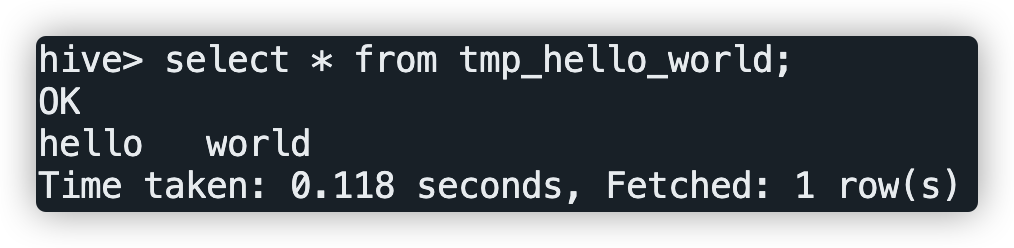
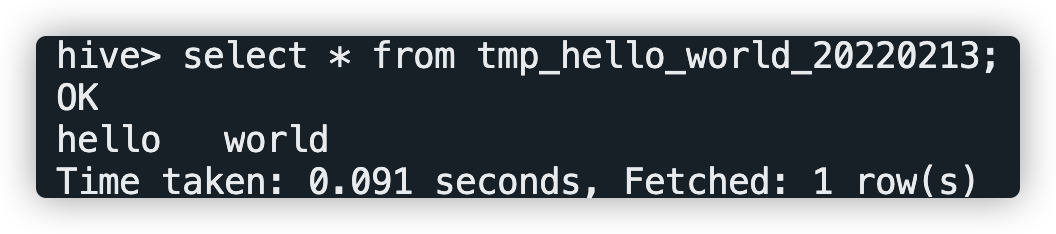
change img only use English screenshot use whole screenshot with step number for how to create sql task use custom parameters for sql task

diff --git a/docs/en-us/2.0.0/user_doc/guide/task/sql.md b/docs/en-us/2.0.0/user_doc/guide/task/sql.md
@@ -2,16 +2,16 @@
 
 ## Overview
 
-SQL task, used to connect to remote database and execute SQL.
+SQL task, used to connect to database and execute SQL.
 
 ## create data source
 
-Click the "create Datasource" button in the Datasource, enter the connection information and test the connection.
+Refer to [Data Source](https://dolphinscheduler.apache.org/en-us/docs/latest/user_doc/guide/datasource/introduction.html)
 
 ## Create Task
 
 - Click Project Management-Project Name-Workflow Definition, and click the "Create Workflow" button to enter the DAG editing page.
-- Drag <img src="/img/tasks/demo/sql-icon.png" width="25"/> from the toolbar to the drawing board.
+- Drag <img src="/img/tasks/icons/sql.png" width="25"/> from the toolbar to the drawing board.
 
 ## Task Parameter
 
@@ -28,13 +28,15 @@ Click the "create Datasource" button in the Datasource, enter the connection inf
 
 ### Create a temporary table in hive and write data
 
-This example creates a temporary table `tmp_hello_world` in hive and write a row of data. Before creating a temporary table, you need to ensure that the table does not exist, so you will use the "Pre Statement" function in the SQL task to delete the table before the "SQL statement" is executed.
+This example creates a temporary table `tmp_hello_world` in hive and write a row of data. Before creating a temporary table, we need to ensure that the table does not exist, so we will use custom parameters to obtain the time of the day as the suffix of the table name every time we run, so that this task can run every day. The format of the created table name is: `tmp_hello_world_{yyyyMMdd}`.
 
-<img src="/img/tasks/demo/hive-sql-en.png" alt="hive-sql-en" style="zoom:80%;" />
+![hive-sql](/img/tasks/demo/hive-sql.png)
 
-After running the task successfully, query the results in hive.
+### After running the task successfully, query the results in hive.
 
-<img src="/img/tasks/demo/hive-result.png" alt="hive-result" style="zoom:80%;" />
+Log in to the bigdata cluster and use 'hive' command or 'beeline' or 'JDBC' and other methods to connect to the 'Apache Hive' for the query. The query SQL is `select * from tmp_hello_world_{yyyyMMdd}`, please replace '{yyyyMMdd}' with the date of the running day. The query screenshot is as follows:
+
+![hive-sql](/img/tasks/demo/hive-result.png)
 
 ## Notice
 

diff --git a/docs/en-us/2.0.1/user_doc/guide/task/sql.md b/docs/en-us/2.0.1/user_doc/guide/task/sql.md
@@ -2,16 +2,16 @@
 
 ## Overview
 
-SQL task, used to connect to remote database and execute SQL.
+SQL task, used to connect to database and execute SQL.
 
 ## create data source
 
-Click the "create Datasource" button in the Datasource, enter the connection information and test the connection.
+Refer to [Data Source](https://dolphinscheduler.apache.org/en-us/docs/latest/user_doc/guide/datasource/introduction.html)
 
 ## Create Task
 
 - Click Project Management-Project Name-Workflow Definition, and click the "Create Workflow" button to enter the DAG editing page.
-- Drag <img src="/img/tasks/demo/sql-icon.png" width="25"/> from the toolbar to the drawing board.
+- Drag <img src="/img/tasks/icons/sql.png" width="25"/> from the toolbar to the drawing board.
 
 ## Task Parameter
 
@@ -28,13 +28,15 @@ Click the "create Datasource" button in the Datasource, enter the connection inf
 
 ### Create a temporary table in hive and write data
 
-This example creates a temporary table `tmp_hello_world` in hive and write a row of data. Before creating a temporary table, you need to ensure that the table does not exist, so you will use the "Pre Statement" function in the SQL task to delete the table before the "SQL statement" is executed.
+This example creates a temporary table `tmp_hello_world` in hive and write a row of data. Before creating a temporary table, we need to ensure that the table does not exist, so we will use custom parameters to obtain the time of the day as the suffix of the table name every time we run, so that this task can run every day. The format of the created table name is: `tmp_hello_world_{yyyyMMdd}`.
 
-<img src="/img/tasks/demo/hive-sql-en.png" alt="hive-sql-en" style="zoom:80%;" />
+![hive-sql](/img/tasks/demo/hive-sql.png)
 
-After running the task successfully, query the results in hive.
+### After running the task successfully, query the results in hive.
 
-<img src="/img/tasks/demo/hive-result.png" alt="hive-result" style="zoom:80%;" />
+Log in to the bigdata cluster and use 'hive' command or 'beeline' or 'JDBC' and other methods to connect to the 'Apache Hive' for the query. The query SQL is `select * from tmp_hello_world_{yyyyMMdd}`, please replace '{yyyyMMdd}' with the date of the running day. The query screenshot is as follows:
+
+![hive-sql](/img/tasks/demo/hive-result.png)
 
 ## Notice
 

diff --git a/docs/en-us/2.0.2/user_doc/guide/task/sql.md b/docs/en-us/2.0.2/user_doc/guide/task/sql.md
@@ -2,16 +2,16 @@
 
 ## Overview
 
-SQL task, used to connect to remote database and execute SQL.
+SQL task, used to connect to database and execute SQL.
 
 ## create data source
 
-Click the "create Datasource" button in the Datasource, enter the connection information and test the connection.
+Refer to [Data Source](https://dolphinscheduler.apache.org/en-us/docs/latest/user_doc/guide/datasource/introduction.html)
 
 ## Create Task
 
 - Click Project Management-Project Name-Workflow Definition, and click the "Create Workflow" button to enter the DAG editing page.
-- Drag <img src="/img/tasks/demo/sql-icon.png" width="25"/> from the toolbar to the drawing board.
+- Drag <img src="/img/tasks/icons/sql.png" width="25"/> from the toolbar to the drawing board.
 
 ## Task Parameter
 
@@ -28,13 +28,15 @@ Click the "create Datasource" button in the Datasource, enter the connection inf
 
 ### Create a temporary table in hive and write data
 
-This example creates a temporary table `tmp_hello_world` in hive and write a row of data. Before creating a temporary table, you need to ensure that the table does not exist, so you will use the "Pre Statement" function in the SQL task to delete the table before the "SQL statement" is executed.
+This example creates a temporary table `tmp_hello_world` in hive and write a row of data. Before creating a temporary table, we need to ensure that the table does not exist, so we will use custom parameters to obtain the time of the day as the suffix of the table name every time we run, so that this task can run every day. The format of the created table name is: `tmp_hello_world_{yyyyMMdd}`.
 
-<img src="/img/tasks/demo/hive-sql-en.png" alt="hive-sql-en" style="zoom:80%;" />
+![hive-sql](/img/tasks/demo/hive-sql.png)
 
-After running the task successfully, query the results in hive.
+### After running the task successfully, query the results in hive.
 
-<img src="/img/tasks/demo/hive-result.png" alt="hive-result" style="zoom:80%;" />
+Log in to the bigdata cluster and use 'hive' command or 'beeline' or 'JDBC' and other methods to connect to the 'Apache Hive' for the query. The query SQL is `select * from tmp_hello_world_{yyyyMMdd}`, please replace '{yyyyMMdd}' with the date of the running day. The query screenshot is as follows:
+
+![hive-sql](/img/tasks/demo/hive-result.png)
 
 ## Notice
 

diff --git a/docs/en-us/2.0.3/user_doc/guide/task/sql.md b/docs/en-us/2.0.3/user_doc/guide/task/sql.md
@@ -2,16 +2,16 @@
 
 ## Overview
 
-SQL task, used to connect to remote database and execute SQL.
+SQL task, used to connect to database and execute SQL.
 
 ## create data source
 
-Click the "create Datasource" button in the Datasource, enter the connection information and test the connection.
+Refer to [Data Source](https://dolphinscheduler.apache.org/en-us/docs/latest/user_doc/guide/datasource/introduction.html)
 
 ## Create Task
 
 - Click Project Management-Project Name-Workflow Definition, and click the "Create Workflow" button to enter the DAG editing page.
-- Drag <img src="/img/tasks/demo/sql-icon.png" width="25"/> from the toolbar to the drawing board.
+- Drag <img src="/img/tasks/icons/sql.png" width="25"/> from the toolbar to the drawing board.
 
 ## Task Parameter
 
@@ -28,13 +28,15 @@ Click the "create Datasource" button in the Datasource, enter the connection inf
 
 ### Create a temporary table in hive and write data
 
-This example creates a temporary table `tmp_hello_world` in hive and write a row of data. Before creating a temporary table, you need to ensure that the table does not exist, so you will use the "Pre Statement" function in the SQL task to delete the table before the "SQL statement" is executed.
+This example creates a temporary table `tmp_hello_world` in hive and write a row of data. Before creating a temporary table, we need to ensure that the table does not exist, so we will use custom parameters to obtain the time of the day as the suffix of the table name every time we run, so that this task can run every day. The format of the created table name is: `tmp_hello_world_{yyyyMMdd}`.
 
-<img src="/img/tasks/demo/hive-sql-en.png" alt="hive-sql-en" style="zoom:80%;" />
+![hive-sql](/img/tasks/demo/hive-sql.png)
 
-After running the task successfully, query the results in hive.
+### After running the task successfully, query the results in hive.
 
-<img src="/img/tasks/demo/hive-result.png" alt="hive-result" style="zoom:80%;" />
+Log in to the bigdata cluster and use 'hive' command or 'beeline' or 'JDBC' and other methods to connect to the 'Apache Hive' for the query. The query SQL is `select * from tmp_hello_world_{yyyyMMdd}`, please replace '{yyyyMMdd}' with the date of the running day. The query screenshot is as follows:
+
+![hive-sql](/img/tasks/demo/hive-result.png)
 
 ## Notice
 

diff --git a/docs/en-us/dev/user_doc/guide/task/sql.md b/docs/en-us/dev/user_doc/guide/task/sql.md
@@ -2,16 +2,16 @@
 
 ## Overview
 
-SQL task, used to connect to remote database and execute SQL.
+SQL task, used to connect to database and execute SQL.
 
 ## create data source
 
-Click the "create Datasource" button in the Datasource, enter the connection information and test the connection.
+Refer to [Data Source](https://dolphinscheduler.apache.org/en-us/docs/latest/user_doc/guide/datasource/introduction.html)
 
 ## Create Task
 
 - Click Project Management-Project Name-Workflow Definition, and click the "Create Workflow" button to enter the DAG editing page.
-- Drag <img src="/img/tasks/demo/sql-icon.png" width="25"/> from the toolbar to the drawing board.
+- Drag <img src="/img/tasks/icons/sql.png" width="25"/> from the toolbar to the drawing board.
 
 ## Task Parameter
 
@@ -28,13 +28,15 @@ Click the "create Datasource" button in the Datasource, enter the connection inf
 
 ### Create a temporary table in hive and write data
 
-This example creates a temporary table `tmp_hello_world` in hive and write a row of data. Before creating a temporary table, you need to ensure that the table does not exist, so you will use the "Pre Statement" function in the SQL task to delete the table before the "SQL statement" is executed.
+This example creates a temporary table `tmp_hello_world` in hive and write a row of data. Before creating a temporary table, we need to ensure that the table does not exist, so we will use custom parameters to obtain the time of the day as the suffix of the table name every time we run, so that this task can run every day. The format of the created table name is: `tmp_hello_world_{yyyyMMdd}`.
 
-<img src="/img/tasks/demo/hive-sql-en.png" alt="hive-sql-en" style="zoom:80%;" />
+![hive-sql](/img/tasks/demo/hive-sql.png)
 
-After running the task successfully, query the results in hive.
+### After running the task successfully, query the results in hive.
 
-<img src="/img/tasks/demo/hive-result.png" alt="hive-result" style="zoom:80%;" />
+Log in to the bigdata cluster and use 'hive' command or 'beeline' or 'JDBC' and other methods to connect to the 'Apache Hive' for the query. The query SQL is `select * from tmp_hello_world_{yyyyMMdd}`, please replace '{yyyyMMdd}' with the date of the running day. The query screenshot is as follows:
+
+![hive-sql](/img/tasks/demo/hive-result.png)
 
 ## Notice
 

diff --git a/docs/zh-cn/2.0.0/user_doc/guide/task/sql.md b/docs/zh-cn/2.0.0/user_doc/guide/task/sql.md
@@ -2,16 +2,16 @@
 
 ## 综述
 
-SQL任务类型，用于连接远程数据库并执行相应SQL。
+SQL任务类型，用于连接数据库并执行相应SQL。
 
 ## 创建数据源
 
-- 点击数据源中心的“创建数据源”按钮，输入连接信息并测试连接。
+可参考[数据源中心介绍](https://dolphinscheduler.apache.org/zh-cn/docs/latest/user_doc/guide/datasource/introduction.html)。
 
 ## 创建任务
 
 - 点击项目管理-项目名称-工作流定义，点击"创建工作流"按钮，进入DAG编辑页面。
-- 工具栏中拖动 <img src="/img/tasks/demo/sql-icon.png" width="25"/> 到画板中，选择需要连接的数据源，即可完成创建。
+- 工具栏中拖动 <img src="/img/tasks/icons/sql.png" width="25"/> 到画板中，选择需要连接的数据源，即可完成创建。
 
 ## 任务参数
 
@@ -28,13 +28,15 @@ SQL任务类型，用于连接远程数据库并执行相应SQL。
 
 ### 在hive中创建临时表并写入数据
 
-该样例向hive中创建临时表`tmp_hello_world`并写入一行数据。选择SQL类型为非查询，在创建临时表之前需要确保该表不存在，所以会用到SQL任务中“前置sql”的功能，在“sql语句”执行之前将该表删除。
+该样例向hive中创建临时表`tmp_hello_world`并写入一行数据。选择SQL类型为非查询，在创建临时表之前需要确保该表不存在，所以我们使用自定义参数，在每次运行时获取当天时间作为表名后缀，这样这个任务就可以每天运行。创建的表名格式为：`tmp_hello_world_{yyyyMMdd}`。
 
-<img src="/img/tasks/demo/hive-sql-zh.png" alt="hive-sql-zh" style="zoom:80%;" />
+![hive-sql](/img/tasks/demo/hive-sql.png)
 
-运行该任务成功之后在hive中查询结果
+### 运行该任务成功之后在hive中查询结果
 
-<img src="/img/tasks/demo/hive-result.png" alt="hive-result" style="zoom:80%;" />
+登录集群使用`hive`命令或使用`beeline`、`JDBC`等方式连接`apache hive`进行查询，查询SQL为`select * from tmp_hello_world_{yyyyMMdd}`，请将`{yyyyMMdd}`替换为运行当天的日期，查询截图如下：
+
+![hive-sql](/img/tasks/demo/hive-result.png)
 
 ## 注意事项
 

diff --git a/docs/zh-cn/2.0.1/user_doc/guide/task/sql.md b/docs/zh-cn/2.0.1/user_doc/guide/task/sql.md
@@ -2,16 +2,16 @@
 
 ## 综述
 
-SQL任务类型，用于连接远程数据库并执行相应SQL。
+SQL任务类型，用于连接数据库并执行相应SQL。
 
 ## 创建数据源
 
-- 点击数据源中心的“创建数据源”按钮，输入连接信息并测试连接。
+可参考[数据源中心介绍](https://dolphinscheduler.apache.org/zh-cn/docs/latest/user_doc/guide/datasource/introduction.html)。
 
 ## 创建任务
 
 - 点击项目管理-项目名称-工作流定义，点击"创建工作流"按钮，进入DAG编辑页面。
-- 工具栏中拖动 <img src="/img/tasks/demo/sql-icon.png" width="25"/> 到画板中，选择需要连接的数据源，即可完成创建。
+- 工具栏中拖动 <img src="/img/tasks/icons/sql.png" width="25"/> 到画板中，选择需要连接的数据源，即可完成创建。
 
 ## 任务参数
 
@@ -28,13 +28,15 @@ SQL任务类型，用于连接远程数据库并执行相应SQL。
 
 ### 在hive中创建临时表并写入数据
 
-该样例向hive中创建临时表`tmp_hello_world`并写入一行数据。选择SQL类型为非查询，在创建临时表之前需要确保该表不存在，所以会用到SQL任务中“前置sql”的功能，在“sql语句”执行之前将该表删除。
+该样例向hive中创建临时表`tmp_hello_world`并写入一行数据。选择SQL类型为非查询，在创建临时表之前需要确保该表不存在，所以我们使用自定义参数，在每次运行时获取当天时间作为表名后缀，这样这个任务就可以每天运行。创建的表名格式为：`tmp_hello_world_{yyyyMMdd}`。
 
-<img src="/img/tasks/demo/hive-sql-zh.png" alt="hive-sql-zh" style="zoom:80%;" />
+![hive-sql](/img/tasks/demo/hive-sql.png)
 
-运行该任务成功之后在hive中查询结果
+### 运行该任务成功之后在hive中查询结果
 
-<img src="/img/tasks/demo/hive-result.png" alt="hive-result" style="zoom:80%;" />
+登录集群使用`hive`命令或使用`beeline`、`JDBC`等方式连接`apache hive`进行查询，查询SQL为`select * from tmp_hello_world_{yyyyMMdd}`，请将`{yyyyMMdd}`替换为运行当天的日期，查询截图如下：
+
+![hive-sql](/img/tasks/demo/hive-result.png)
 
 ## 注意事项
 

diff --git a/docs/zh-cn/2.0.2/user_doc/guide/task/sql.md b/docs/zh-cn/2.0.2/user_doc/guide/task/sql.md
@@ -2,16 +2,16 @@
 
 ## 综述
 
-SQL任务类型，用于连接远程数据库并执行相应SQL。
+SQL任务类型，用于连接数据库并执行相应SQL。
 
 ## 创建数据源
 
-- 点击数据源中心的“创建数据源”按钮，输入连接信息并测试连接。
+可参考[数据源中心介绍](https://dolphinscheduler.apache.org/zh-cn/docs/latest/user_doc/guide/datasource/introduction.html)。
 
 ## 创建任务
 
 - 点击项目管理-项目名称-工作流定义，点击"创建工作流"按钮，进入DAG编辑页面。
-- 工具栏中拖动 <img src="/img/tasks/demo/sql-icon.png" width="25"/> 到画板中，选择需要连接的数据源，即可完成创建。
+- 工具栏中拖动 <img src="/img/tasks/icons/sql.png" width="25"/> 到画板中，选择需要连接的数据源，即可完成创建。
 
 ## 任务参数
 
@@ -28,13 +28,15 @@ SQL任务类型，用于连接远程数据库并执行相应SQL。
 
 ### 在hive中创建临时表并写入数据
 
-该样例向hive中创建临时表`tmp_hello_world`并写入一行数据。选择SQL类型为非查询，在创建临时表之前需要确保该表不存在，所以会用到SQL任务中“前置sql”的功能，在“sql语句”执行之前将该表删除。
+该样例向hive中创建临时表`tmp_hello_world`并写入一行数据。选择SQL类型为非查询，在创建临时表之前需要确保该表不存在，所以我们使用自定义参数，在每次运行时获取当天时间作为表名后缀，这样这个任务就可以每天运行。创建的表名格式为：`tmp_hello_world_{yyyyMMdd}`。
 
-<img src="/img/tasks/demo/hive-sql-zh.png" alt="hive-sql-zh" style="zoom:80%;" />
+![hive-sql](/img/tasks/demo/hive-sql.png)
 
-运行该任务成功之后在hive中查询结果
+### 运行该任务成功之后在hive中查询结果
 
-<img src="/img/tasks/demo/hive-result.png" alt="hive-result" style="zoom:80%;" />
+登录集群使用`hive`命令或使用`beeline`、`JDBC`等方式连接`apache hive`进行查询，查询SQL为`select * from tmp_hello_world_{yyyyMMdd}`，请将`{yyyyMMdd}`替换为运行当天的日期，查询截图如下：
+
+![hive-sql](/img/tasks/demo/hive-result.png)
 
 ## 注意事项
 

diff --git a/docs/zh-cn/2.0.3/user_doc/guide/task/sql.md b/docs/zh-cn/2.0.3/user_doc/guide/task/sql.md
@@ -2,16 +2,16 @@
 
 ## 综述
 
-SQL任务类型，用于连接远程数据库并执行相应SQL。
+SQL任务类型，用于连接数据库并执行相应SQL。
 
 ## 创建数据源
 
-- 点击数据源中心的“创建数据源”按钮，输入连接信息并测试连接。
+可参考[数据源中心介绍](https://dolphinscheduler.apache.org/zh-cn/docs/latest/user_doc/guide/datasource/introduction.html)。
 
 ## 创建任务
 
 - 点击项目管理-项目名称-工作流定义，点击"创建工作流"按钮，进入DAG编辑页面。
-- 工具栏中拖动 <img src="/img/tasks/demo/sql-icon.png" width="25"/> 到画板中，选择需要连接的数据源，即可完成创建。
+- 工具栏中拖动 <img src="/img/tasks/icons/sql.png" width="25"/> 到画板中，选择需要连接的数据源，即可完成创建。
 
 ## 任务参数
 
@@ -28,13 +28,15 @@ SQL任务类型，用于连接远程数据库并执行相应SQL。
 
 ### 在hive中创建临时表并写入数据
 
-该样例向hive中创建临时表`tmp_hello_world`并写入一行数据。选择SQL类型为非查询，在创建临时表之前需要确保该表不存在，所以会用到SQL任务中“前置sql”的功能，在“sql语句”执行之前将该表删除。
+该样例向hive中创建临时表`tmp_hello_world`并写入一行数据。选择SQL类型为非查询，在创建临时表之前需要确保该表不存在，所以我们使用自定义参数，在每次运行时获取当天时间作为表名后缀，这样这个任务就可以每天运行。创建的表名格式为：`tmp_hello_world_{yyyyMMdd}`。
 
-<img src="/img/tasks/demo/hive-sql-zh.png" alt="hive-sql-zh" style="zoom:80%;" />
+![hive-sql](/img/tasks/demo/hive-sql.png)
 
-运行该任务成功之后在hive中查询结果
+### 运行该任务成功之后在hive中查询结果
 
-<img src="/img/tasks/demo/hive-result.png" alt="hive-result" style="zoom:80%;" />
+登录集群使用`hive`命令或使用`beeline`、`JDBC`等方式连接`apache hive`进行查询，查询SQL为`select * from tmp_hello_world_{yyyyMMdd}`，请将`{yyyyMMdd}`替换为运行当天的日期，查询截图如下：
+
+![hive-sql](/img/tasks/demo/hive-result.png)
 
 ## 注意事项
 

diff --git a/docs/zh-cn/dev/user_doc/guide/task/sql.md b/docs/zh-cn/dev/user_doc/guide/task/sql.md
@@ -2,16 +2,16 @@
 
 ## 综述
 
-SQL任务类型，用于连接远程数据库并执行相应SQL。
+SQL任务类型，用于连接数据库并执行相应SQL。
 
 ## 创建数据源
 
-- 点击数据源中心的“创建数据源”按钮，输入连接信息并测试连接。
+可参考[数据源中心介绍](https://dolphinscheduler.apache.org/zh-cn/docs/latest/user_doc/guide/datasource/introduction.html)。
 
 ## 创建任务
 
 - 点击项目管理-项目名称-工作流定义，点击"创建工作流"按钮，进入DAG编辑页面。
-- 工具栏中拖动 <img src="/img/tasks/demo/sql-icon.png" width="25"/> 到画板中，选择需要连接的数据源，即可完成创建。
+- 工具栏中拖动 <img src="/img/tasks/icons/sql.png" width="25"/> 到画板中，选择需要连接的数据源，即可完成创建。
 
 ## 任务参数
 
@@ -28,13 +28,15 @@ SQL任务类型，用于连接远程数据库并执行相应SQL。
 
 ### 在hive中创建临时表并写入数据
 
-该样例向hive中创建临时表`tmp_hello_world`并写入一行数据。选择SQL类型为非查询，在创建临时表之前需要确保该表不存在，所以会用到SQL任务中“前置sql”的功能，在“sql语句”执行之前将该表删除。
+该样例向hive中创建临时表`tmp_hello_world`并写入一行数据。选择SQL类型为非查询，在创建临时表之前需要确保该表不存在，所以我们使用自定义参数，在每次运行时获取当天时间作为表名后缀，这样这个任务就可以每天运行。创建的表名格式为：`tmp_hello_world_{yyyyMMdd}`。
 
-<img src="/img/tasks/demo/hive-sql-zh.png" alt="hive-sql-zh" style="zoom:80%;" />
+![hive-sql](/img/tasks/demo/hive-sql.png)
 
-运行该任务成功之后在hive中查询结果
+### 运行该任务成功之后在hive中查询结果
 
-<img src="/img/tasks/demo/hive-result.png" alt="hive-result" style="zoom:80%;" />
+登录集群使用`hive`命令或使用`beeline`、`JDBC`等方式连接`apache hive`进行查询，查询SQL为`select * from tmp_hello_world_{yyyyMMdd}`，请将`{yyyyMMdd}`替换为运行当天的日期，查询截图如下：
+
+![hive-sql](/img/tasks/demo/hive-result.png)
 
 ## 注意事项
 
